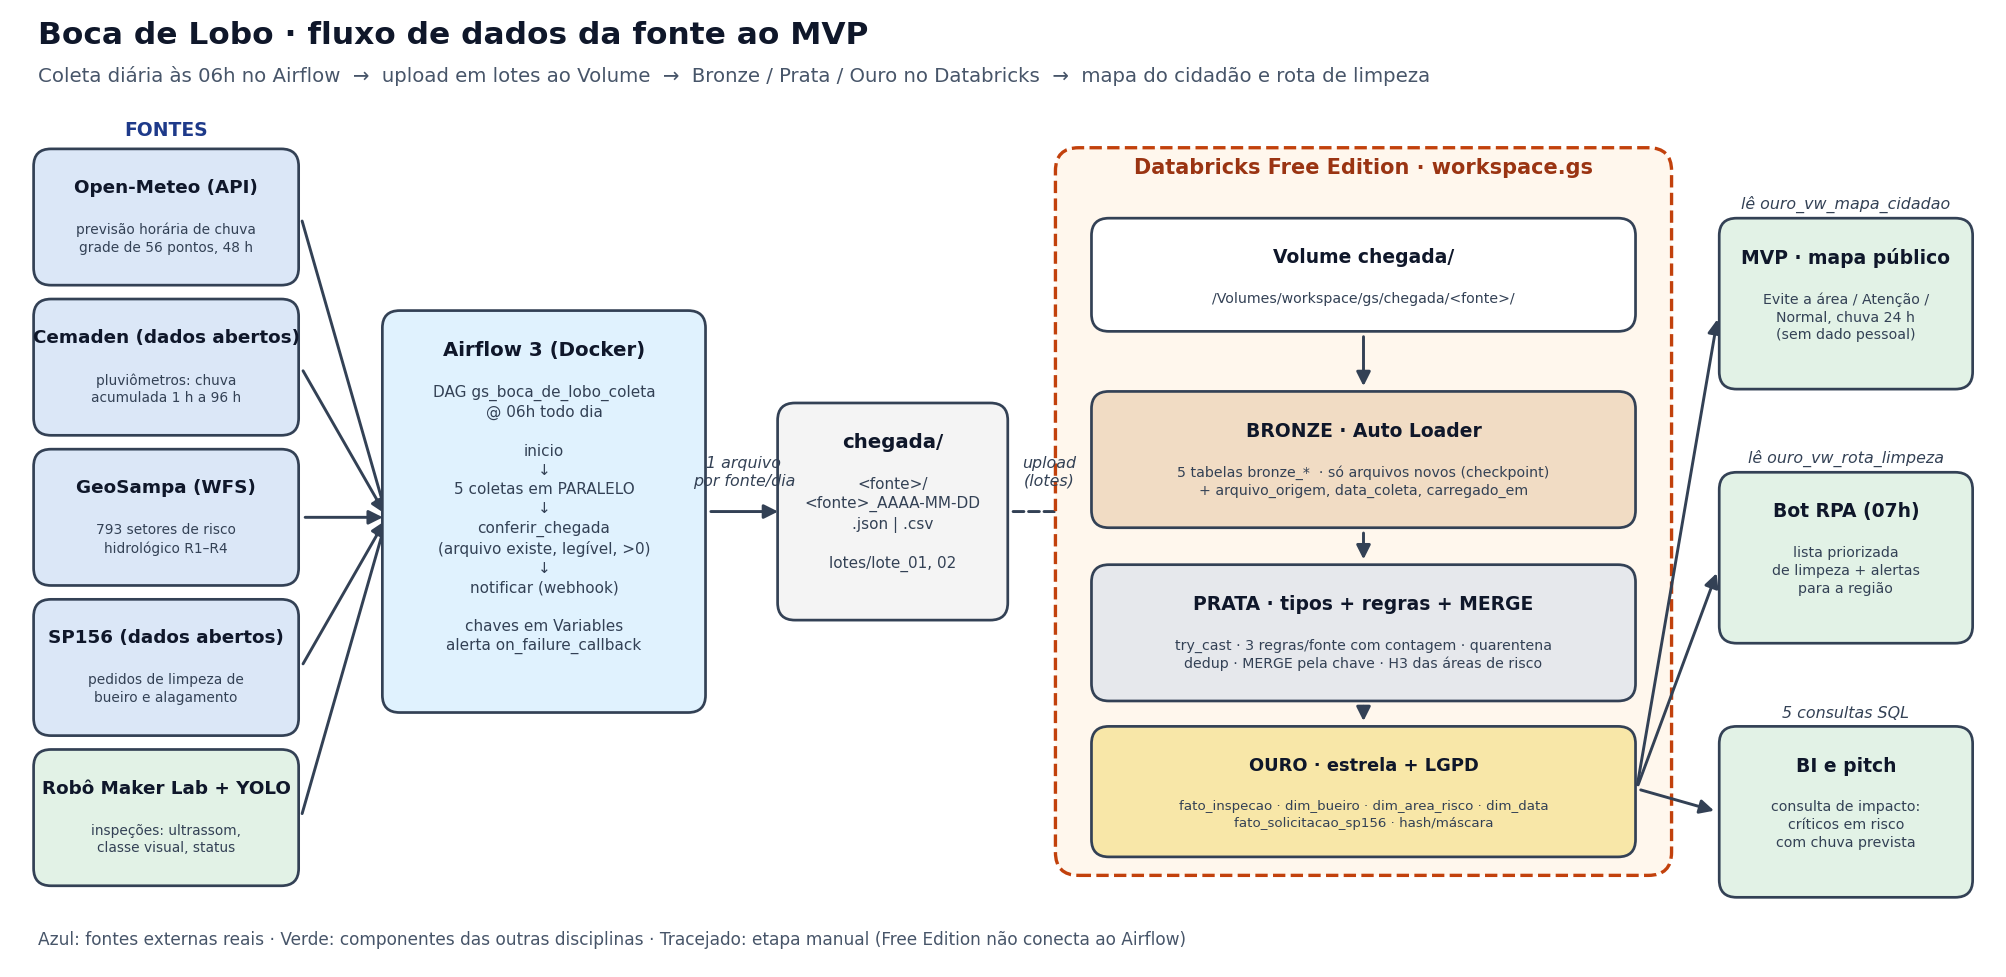
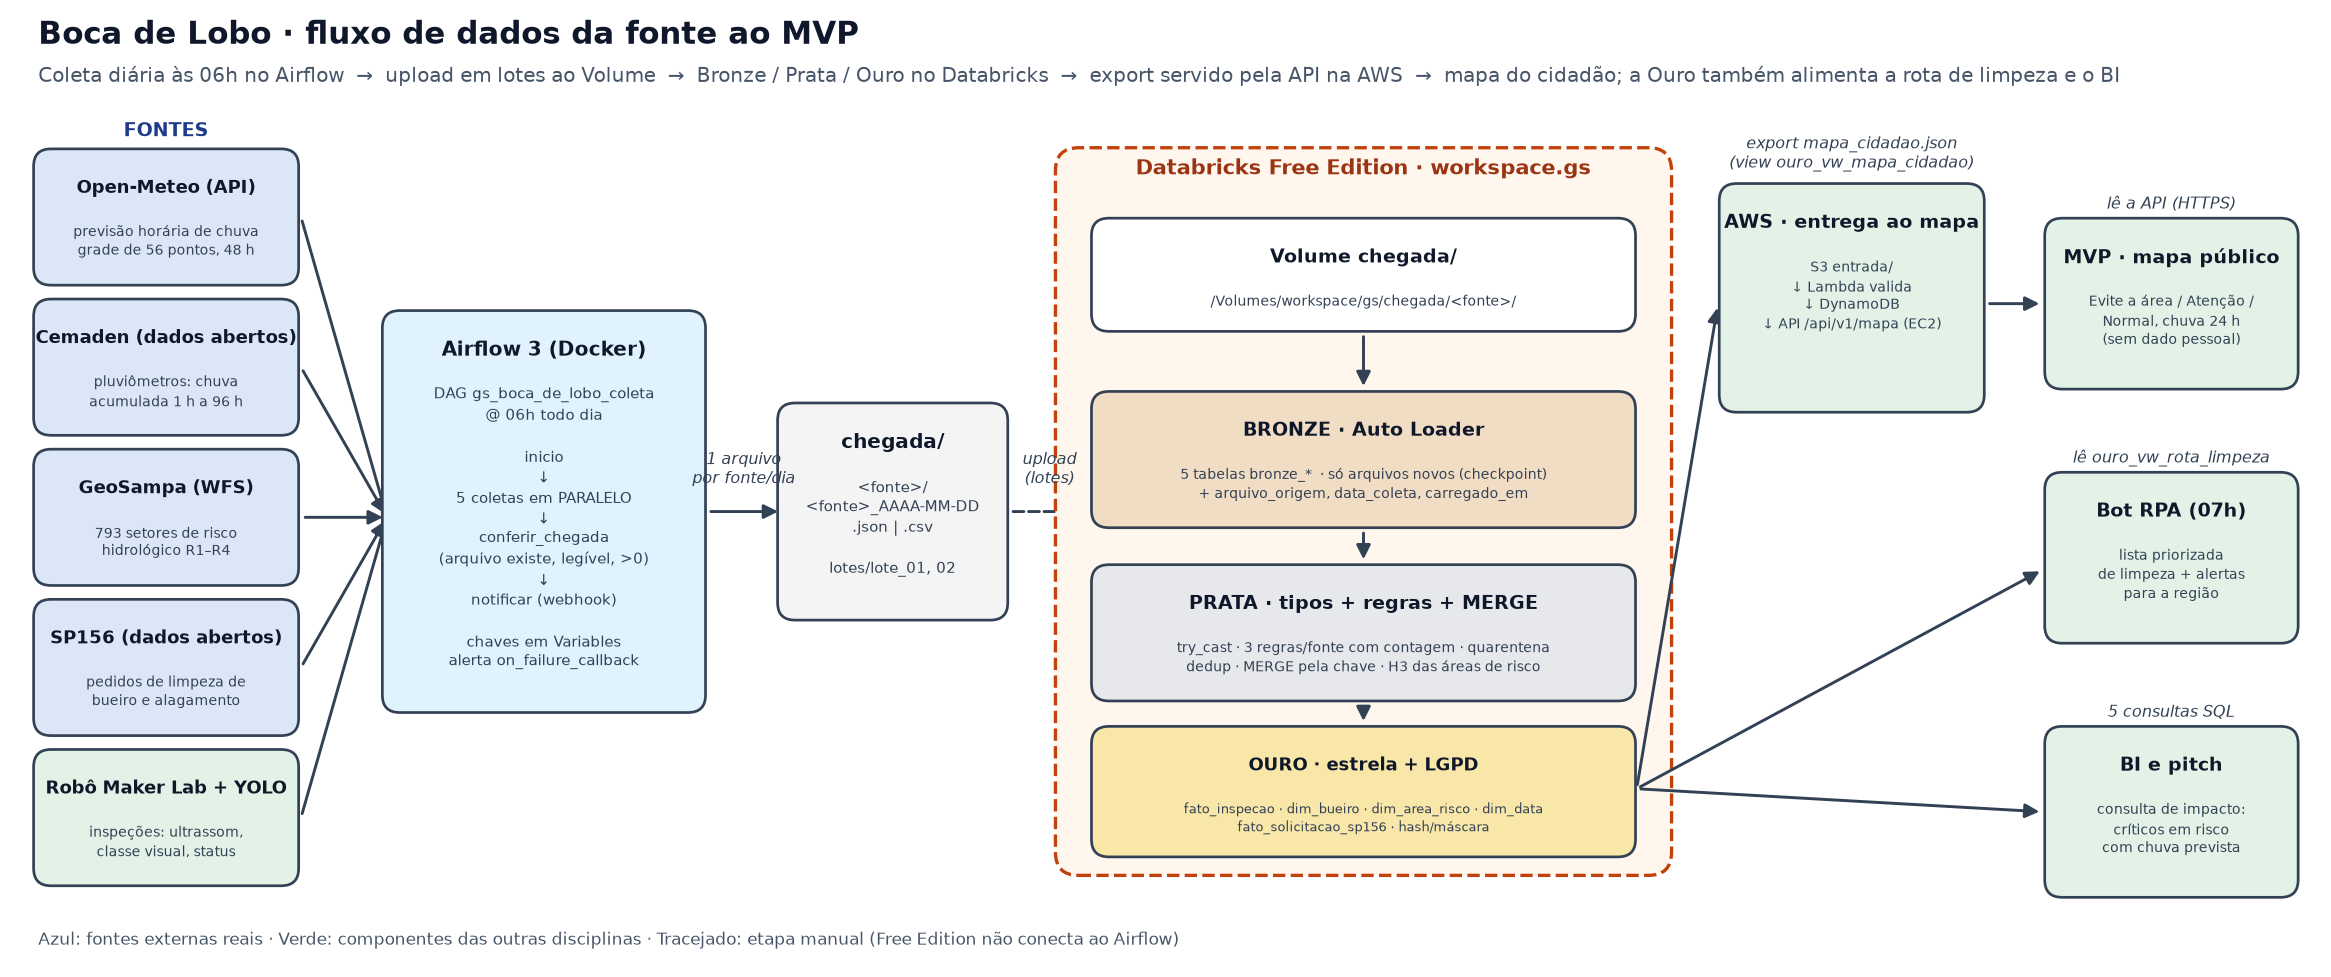
Diagrama de arquitetura passa a mostrar o export da Ouro publicado na AWS e o mapa lendo a API

diff --git a/scripts/desenhar_arquitetura.py b/scripts/desenhar_arquitetura.py
@@ -5,8 +5,8 @@ import matplotlib.pyplot as plt
 from matplotlib.patches import FancyArrowPatch, FancyBboxPatch
 
 RAIZ = Path(__file__).resolve().parents[1]
-fig, ax = plt.subplots(figsize=(17, 8.2), dpi=150)
-ax.set_xlim(0, 170)
+fig, ax = plt.subplots(figsize=(19.8, 8.2), dpi=150)
+ax.set_xlim(0, 198)
 ax.set_ylim(0, 82)
 ax.axis("off")
 
@@ -31,7 +31,7 @@ def seta(x1, y1, x2, y2, rotulo="", cor="#334155", estilo="-|>", tracejada=False
 
 # Título
 ax.text(2, 79.5, "Boca de Lobo · fluxo de dados da fonte ao MVP", fontsize=15, fontweight="bold", color="#0f172a")
-ax.text(2, 76.2, "Coleta diária às 06h no Airflow  →  upload em lotes ao Volume  →  Bronze / Prata / Ouro no Databricks  →  mapa do cidadão e rota de limpeza",
+ax.text(2, 76.2, "Coleta diária às 06h no Airflow  →  upload em lotes ao Volume  →  Bronze / Prata / Ouro no Databricks  →  export servido pela API na AWS  →  mapa do cidadão; a Ouro também alimenta a rota de limpeza e o BI",
         fontsize=9.5, color="#475569")
 
 # Fontes
@@ -68,12 +68,16 @@ seta(116, 22.5, 116, 20.5)
 caixa(93, 9.5, 46, 10.5, "OURO · estrela + LGPD", "fato_inspecao · dim_bueiro · dim_area_risco · dim_data\nfato_solicitacao_sp156 · hash/máscara", cor=OURO, tam=8.6)
 
 # Consumo
-seta(139.5, 15, 146.5, 56, "lê ouro_vw_mapa_cidadao", pos=(157.5, 64.9))
-seta(139.5, 15, 146.5, 34, "lê ouro_vw_rota_limpeza", pos=(157.5, 42.9))
-seta(139.5, 15, 146.5, 13, "5 consultas SQL", pos=(157.5, 20.9))
-caixa(147, 50, 21, 14, "MVP · mapa público", "Evite a área / Atenção /\nNormal, chuva 24 h\n(sem dado pessoal)", cor=VERDE, tam=9)
-caixa(147, 28, 21, 14, "Bot RPA (07h)", "lista priorizada\nde limpeza + alertas\npara a região", cor=VERDE, tam=9)
-caixa(147, 6, 21, 14, "BI e pitch", "consulta de impacto:\ncríticos em risco\ncom chuva prevista", cor=VERDE, tam=9)
+# Ouro -> AWS (componente de DevOps) -> mapa: o export da Ouro é publicado na AWS e o mapa lê a API
+seta(139.5, 15, 146.5, 57, "export mapa_cidadao.json\n(view ouro_vw_mapa_cidadao)", pos=(158, 68.3))
+caixa(147, 48, 22, 19, "AWS · entrega ao mapa",
+      "S3 entrada/\n↓ Lambda valida\n↓ DynamoDB\n↓ API /api/v1/mapa (EC2)", cor=VERDE, tam=9)
+seta(169.5, 57, 174.5, 57, "lê a API (HTTPS)", pos=(185.5, 64.9))
+seta(139.5, 15, 174.5, 34, "lê ouro_vw_rota_limpeza", pos=(185.5, 42.9))
+seta(139.5, 15, 174.5, 13, "5 consultas SQL", pos=(185.5, 20.9))
+caixa(175, 50, 21, 14, "MVP · mapa público", "Evite a área / Atenção /\nNormal, chuva 24 h\n(sem dado pessoal)", cor=VERDE, tam=9)
+caixa(175, 28, 21, 14, "Bot RPA (07h)", "lista priorizada\nde limpeza + alertas\npara a região", cor=VERDE, tam=9)
+caixa(175, 6, 21, 14, "BI e pitch", "consulta de impacto:\ncríticos em risco\ncom chuva prevista", cor=VERDE, tam=9)
 
 ax.text(2, 1.5, "Azul: fontes externas reais · Verde: componentes das outras disciplinas · Tracejado: etapa manual (Free Edition não conecta ao Airflow)",
         fontsize=8.2, color="#475569")
